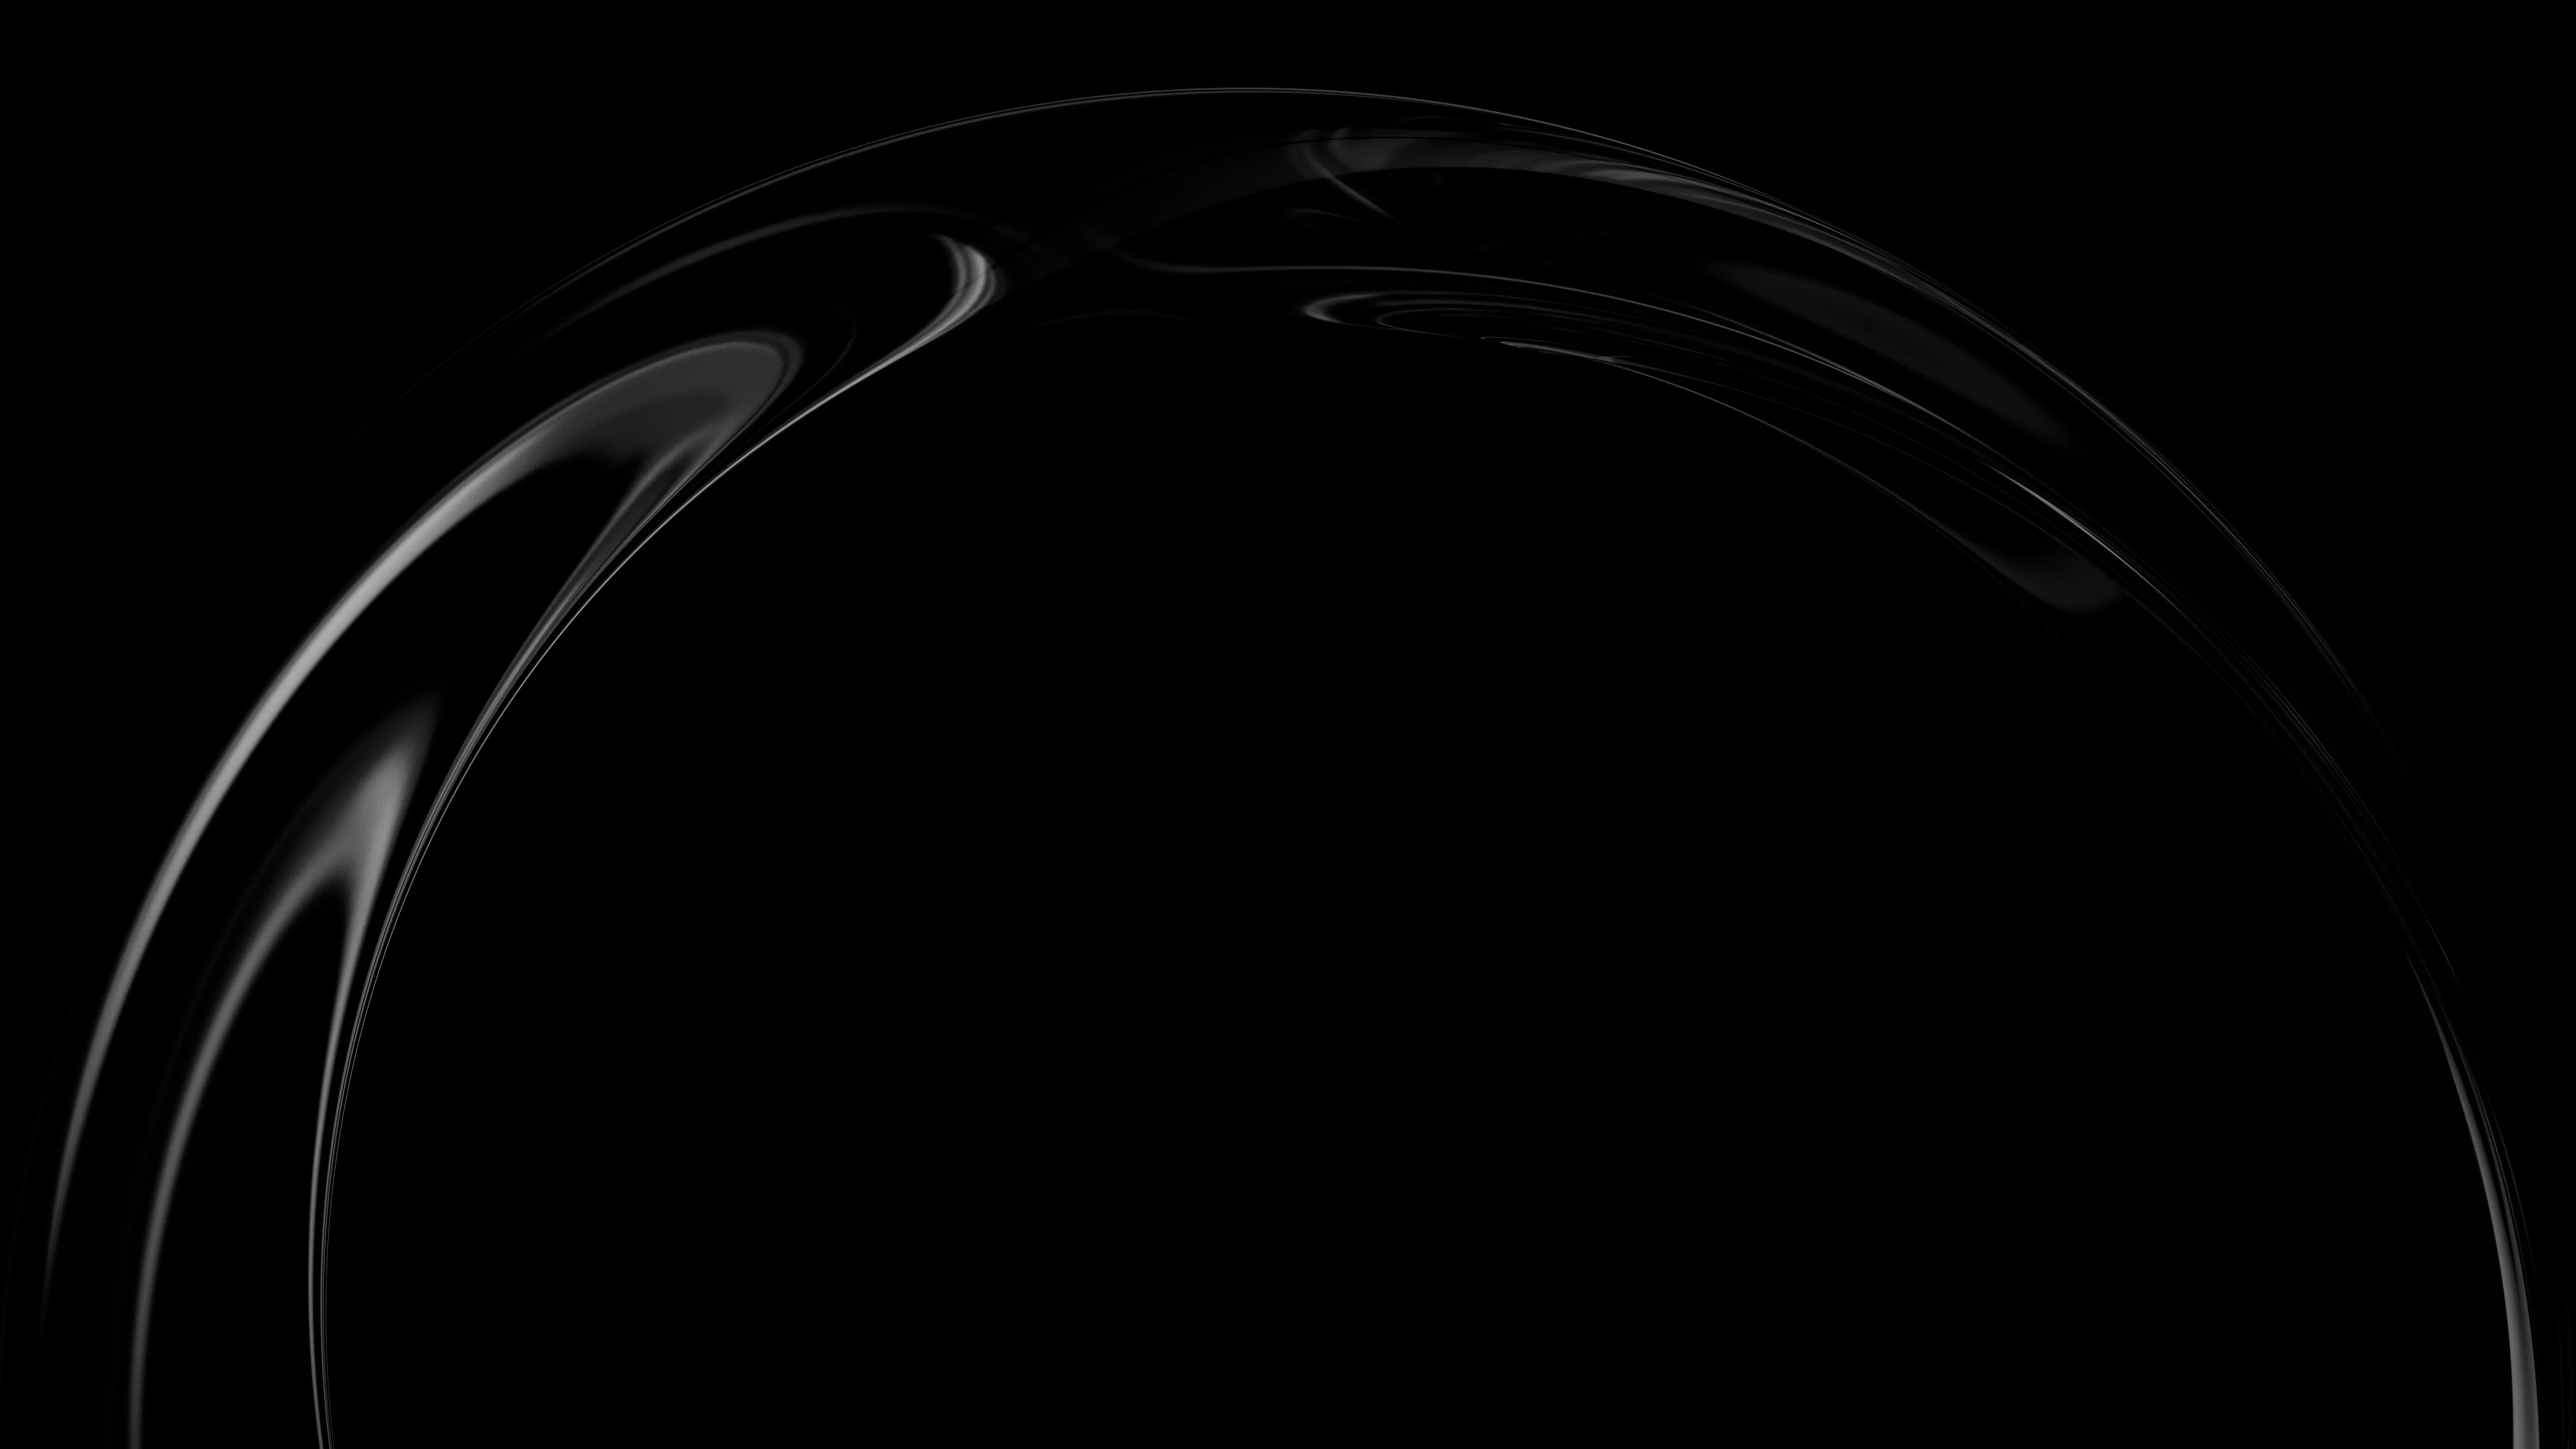
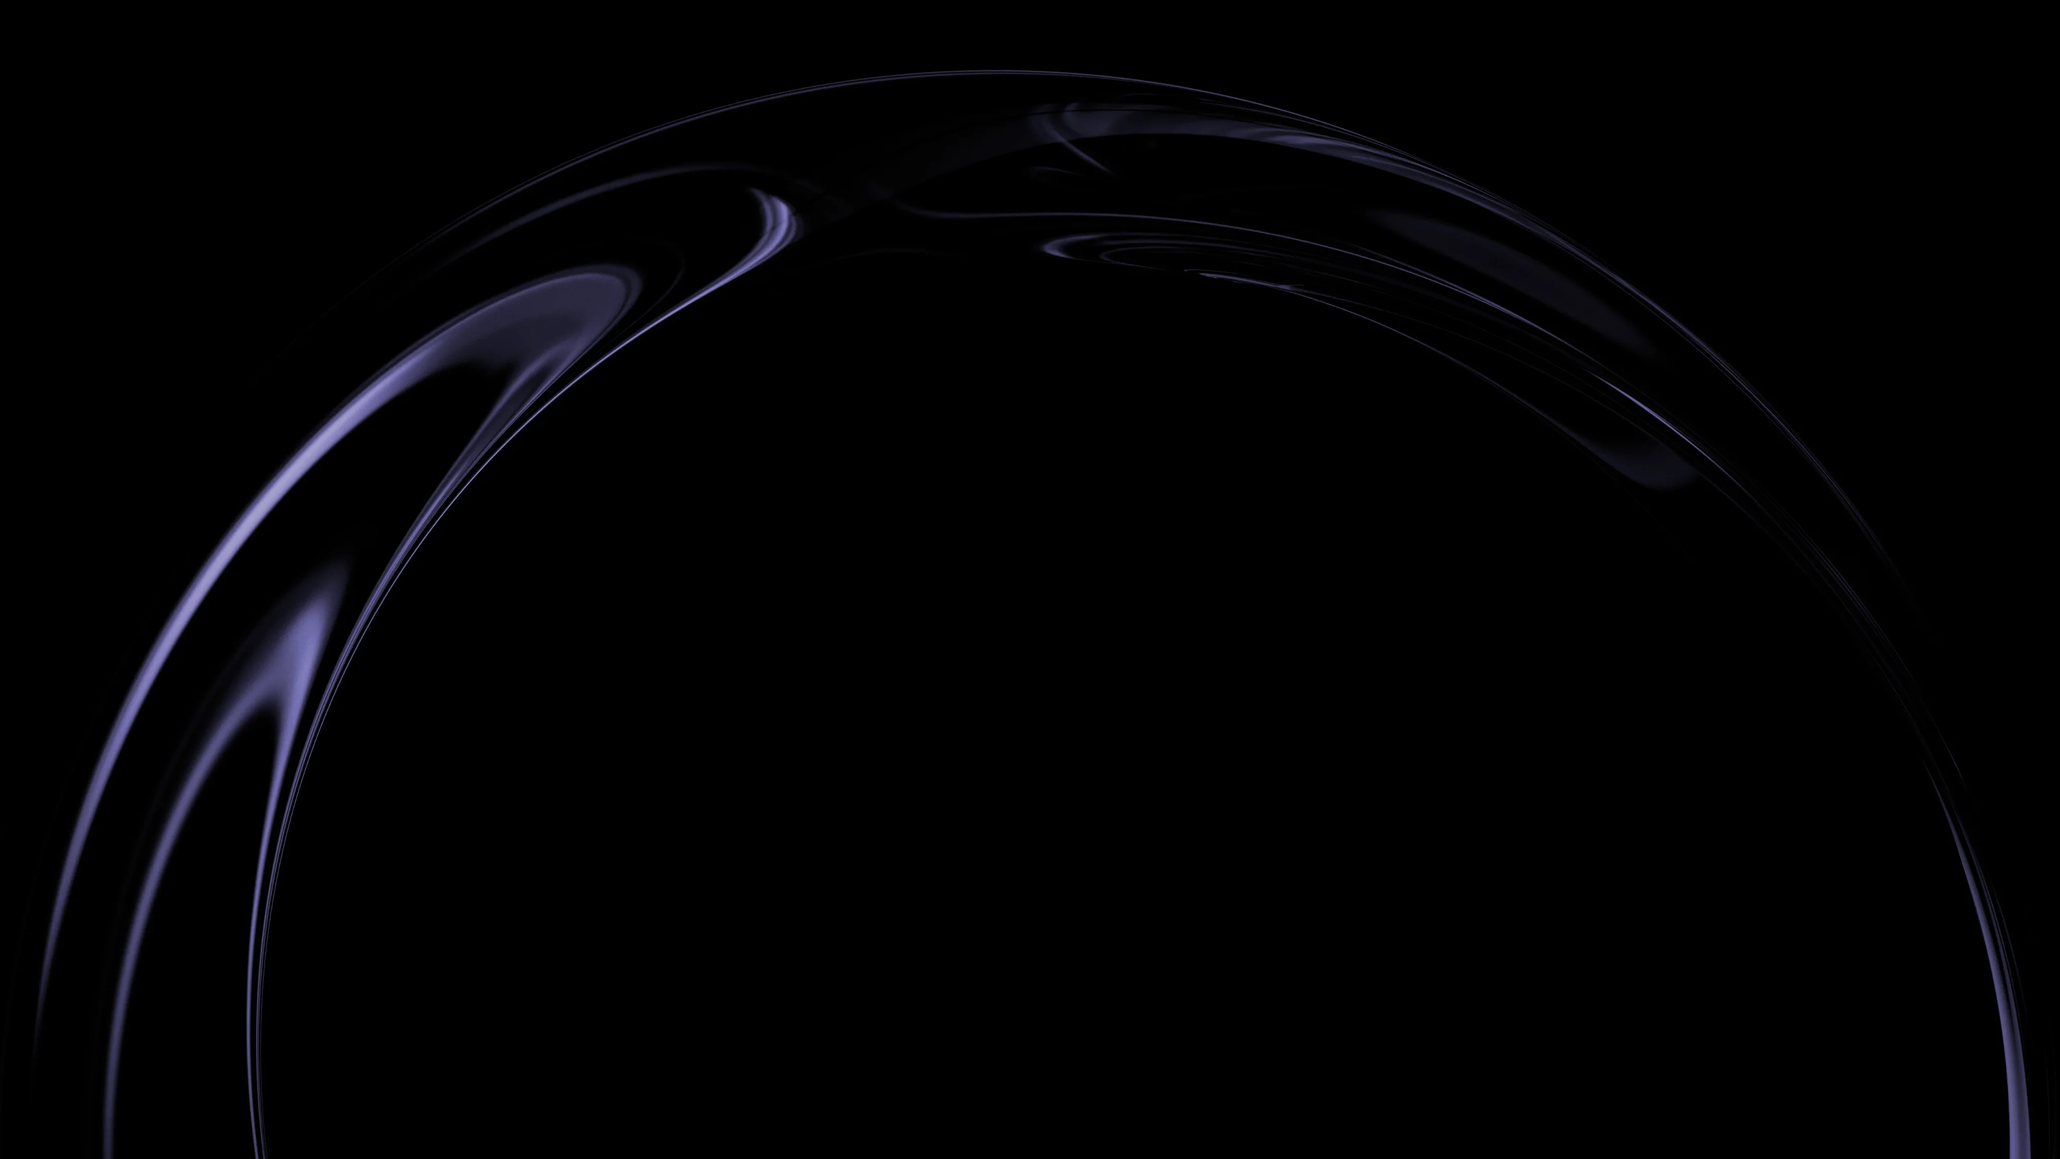
Update design hero

diff --git a/sections/Hero/Hero.tsx b/sections/Hero/Hero.tsx
@@ -102,7 +102,7 @@ const Hero: React.FC = () => {
             {/* Card 2 */}
             <div 
               className="flex-1 group cursor-pointer rounded-3xl p-8 transition-transform duration-300 hover:scale-[1.02]"
-              style={{ background: colors.neutral.grayHover }}
+              style={{ background: colors.purple.tertiary }}
             >
               <div className="flex items-start justify-between gap-4 mb-4">
                 <div className="flex-1">

diff --git a/styles/colors.tsx b/styles/colors.tsx
@@ -32,7 +32,7 @@ export const colors = {
  purple:{
    primary: '#eeeceeff',
    secondary: '#101019ff',
-   tertiary:'#9b9b9bff',
+   tertiary:'#736fb0ff',
  },
 
  apoio:{
